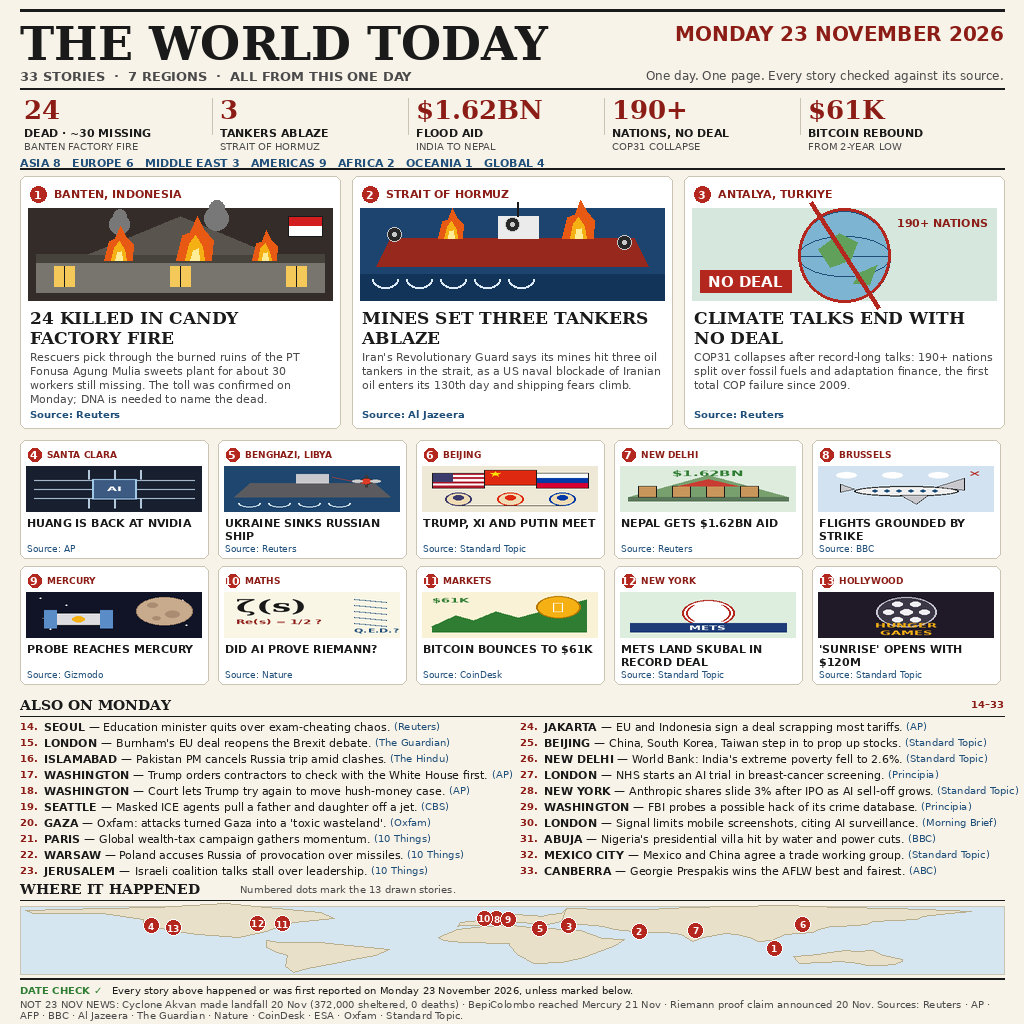
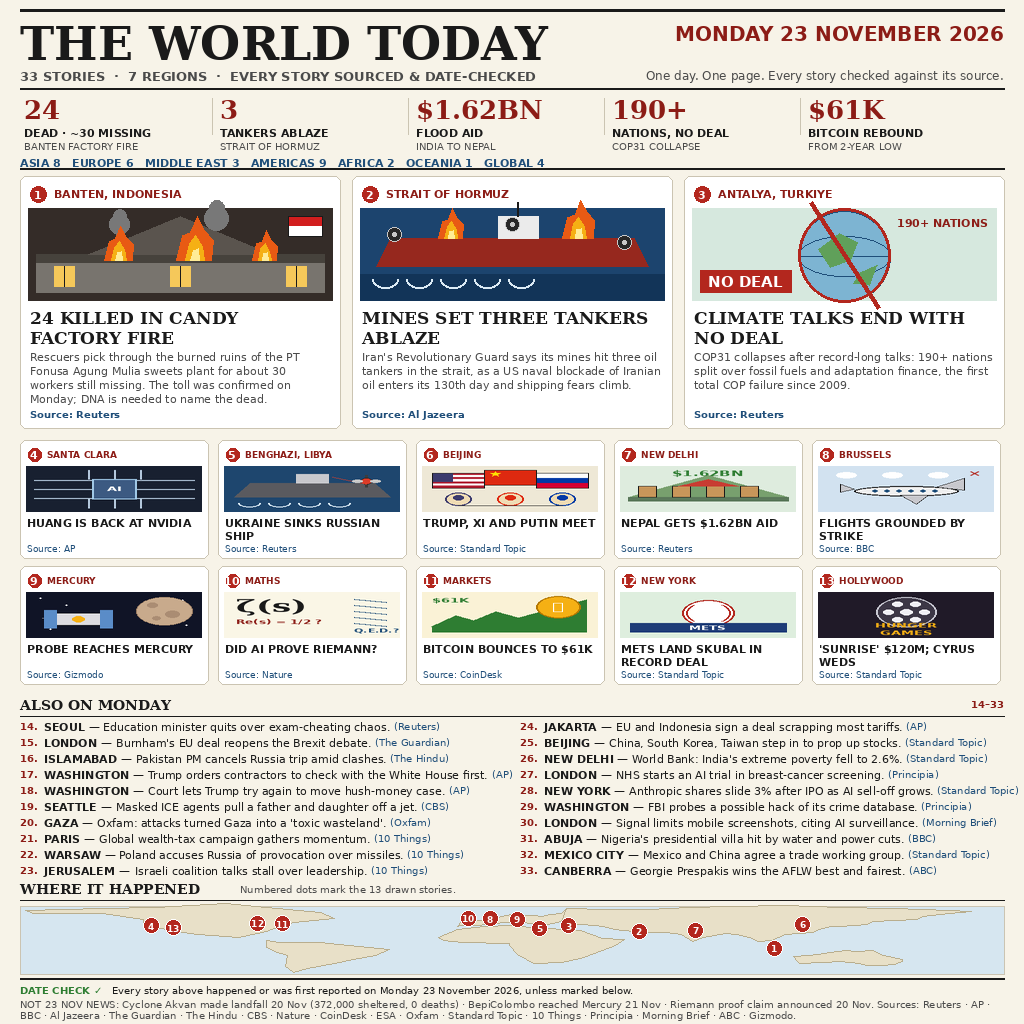
Fix review notes: spread map dots, date-checked masthead, full source list, Cyrus wedding in card 13

diff --git a/draw23.py b/draw23.py
@@ -249,7 +249,7 @@ SMALL = [
     ("AMERICAS", "NEW YORK", "METS LAND SKUBAL IN RECORD DEAL",
      "Detroit ace agrees the richest pitcher deal in baseball.",
      "Standard Topic", "sport"),
-    ("AMERICAS", "HOLLYWOOD", "'SUNRISE' OPENS WITH $120M",
+    ("AMERICAS", "HOLLYWOOD", "'SUNRISE' $120M; CYRUS WEDS",
      "Hunger Games prequel tops the box office; Miley Cyrus weds.",
      "Standard Topic", "film"),
 ]
@@ -288,8 +288,8 @@ NUMBERS = [
 # lon, lat of the 13 drawn stories, for the map
 DOTS = [
     (106.0, -6.2), (56.5, 26.5), (30.7, 36.9), (-122.0, 37.4),
-    (20.1, 32.1), (116.4, 39.9), (77.2, 28.6), (4.4, 50.8),
-    (8.7, 49.9), (-0.1, 51.5), (-74.0, 40.7), (-83.0, 42.3),
+    (20.1, 32.1), (116.4, 39.9), (77.2, 28.6), (2.0, 50.8),
+    (12.0, 49.9), (-6.0, 51.5), (-74.0, 40.7), (-83.0, 42.3),
     (-114.0, 33.0),
 ]
 
@@ -611,7 +611,7 @@ def build():
     d.text((W - M - tw(d, date_t, f_date), 22), date_t, font=f_date,
            fill=RED_DK)
     f_sub = F(13, bold=True)
-    sub = "33 STORIES  ·  7 REGIONS  ·  ALL FROM THIS ONE DAY"
+    sub = "33 STORIES  ·  7 REGIONS  ·  EVERY STORY SOURCED & DATE-CHECKED"
     d.text((M, 68), sub, font=f_sub, fill=INK_SOFT)
     f_sub2 = F(12)
     sub2 = "One day. One page. Every story checked against its source."
@@ -751,8 +751,9 @@ def build():
     line2 = ("NOT 23 NOV NEWS: Cyclone Akvan made landfall 20 Nov (372,000 "
              "sheltered, 0 deaths)  ·  BepiColombo reached Mercury 21 Nov  ·  "
              "Riemann proof claim announced 20 Nov.  Sources: Reuters · AP · "
-             "AFP · BBC · Al Jazeera · The Guardian · Nature · CoinDesk · "
-             "ESA · Oxfam · Standard Topic.")
+             "BBC · Al Jazeera · The Guardian · The Hindu · CBS · Nature · "
+             "CoinDesk · ESA · Oxfam · Standard Topic · 10 Things · "
+             "Principia · Morning Brief · ABC · Gizmodo.")
     para(d, M, y0 + 20, line2, f_f2, W - 2 * M, fill=INK_SOFT, leading=11)
     return img
 

diff --git a/STORIES.md b/STORIES.md
@@ -9,13 +9,14 @@ Mercury arrival 21 Nov, Riemann proof claim 20 Nov).
 
 1. BANTEN, INDONESIA — 24 killed in a candy factory fire; about 30
    missing. Fire broke out Sat 21 Nov at the PT Fonusa Agung Mulia plant
-   in Cikande; the toll of 24 was confirmed Mon 23 Nov. — Reuters
+   in Cikande; the toll of 24 was confirmed Mon 23 Nov. DNA is needed to
+   identify the victims. — Reuters / The Guardian
 2. STRAIT OF HORMUZ — Mines set three oil tankers ablaze; Iran's
    Revolutionary Guard claims the strikes, as the US naval blockade of
    Iranian oil enters its 130th day. — Al Jazeera
 3. ANTALYA, TURKIYE — COP31 climate talks end with no deal after
    record-long talks; 190+ nations split over fossil fuels and adaptation
-   finance. — Reuters
+   finance. The first total COP failure since 2009. — Reuters / Nature
 4. SANTA CLARA — Nvidia's board brings back Jensen Huang as chief
    executive, weeks after he quit in a spy row. — AP
 5. BENGHAZI, LIBYA — Ukraine says its naval drones sank a Russian
@@ -79,6 +80,16 @@ Mercury arrival 21 Nov, Riemann proof claim 20 Nov).
 32. MEXICO CITY — Mexico and China agree a trade working group. —
     Standard Topic
 33. CANBERRA — Georgie Prespakis wins the AFLW best and fairest. — ABC
+
+## Date-check notes (not among the 33)
+
+- Cyclone Akvan made landfall near Gopalpur, Odisha, on Fri 20 Nov;
+  about 372,000 people were moved to shelters and no deaths were
+  reported. — Odisha state government via DD News / The Watchers
+- BepiColombo entered orbit around Mercury on Sat 21 Nov; the thruster
+  glitch was reported Sun 22 Nov and ESA updates followed Mon 23 Nov.
+- The Riemann proof claim was announced Fri 20 Nov; the verification
+  debate it sparked was covered on Mon 23 Nov. — Nature
 
 ## Region counts
 
